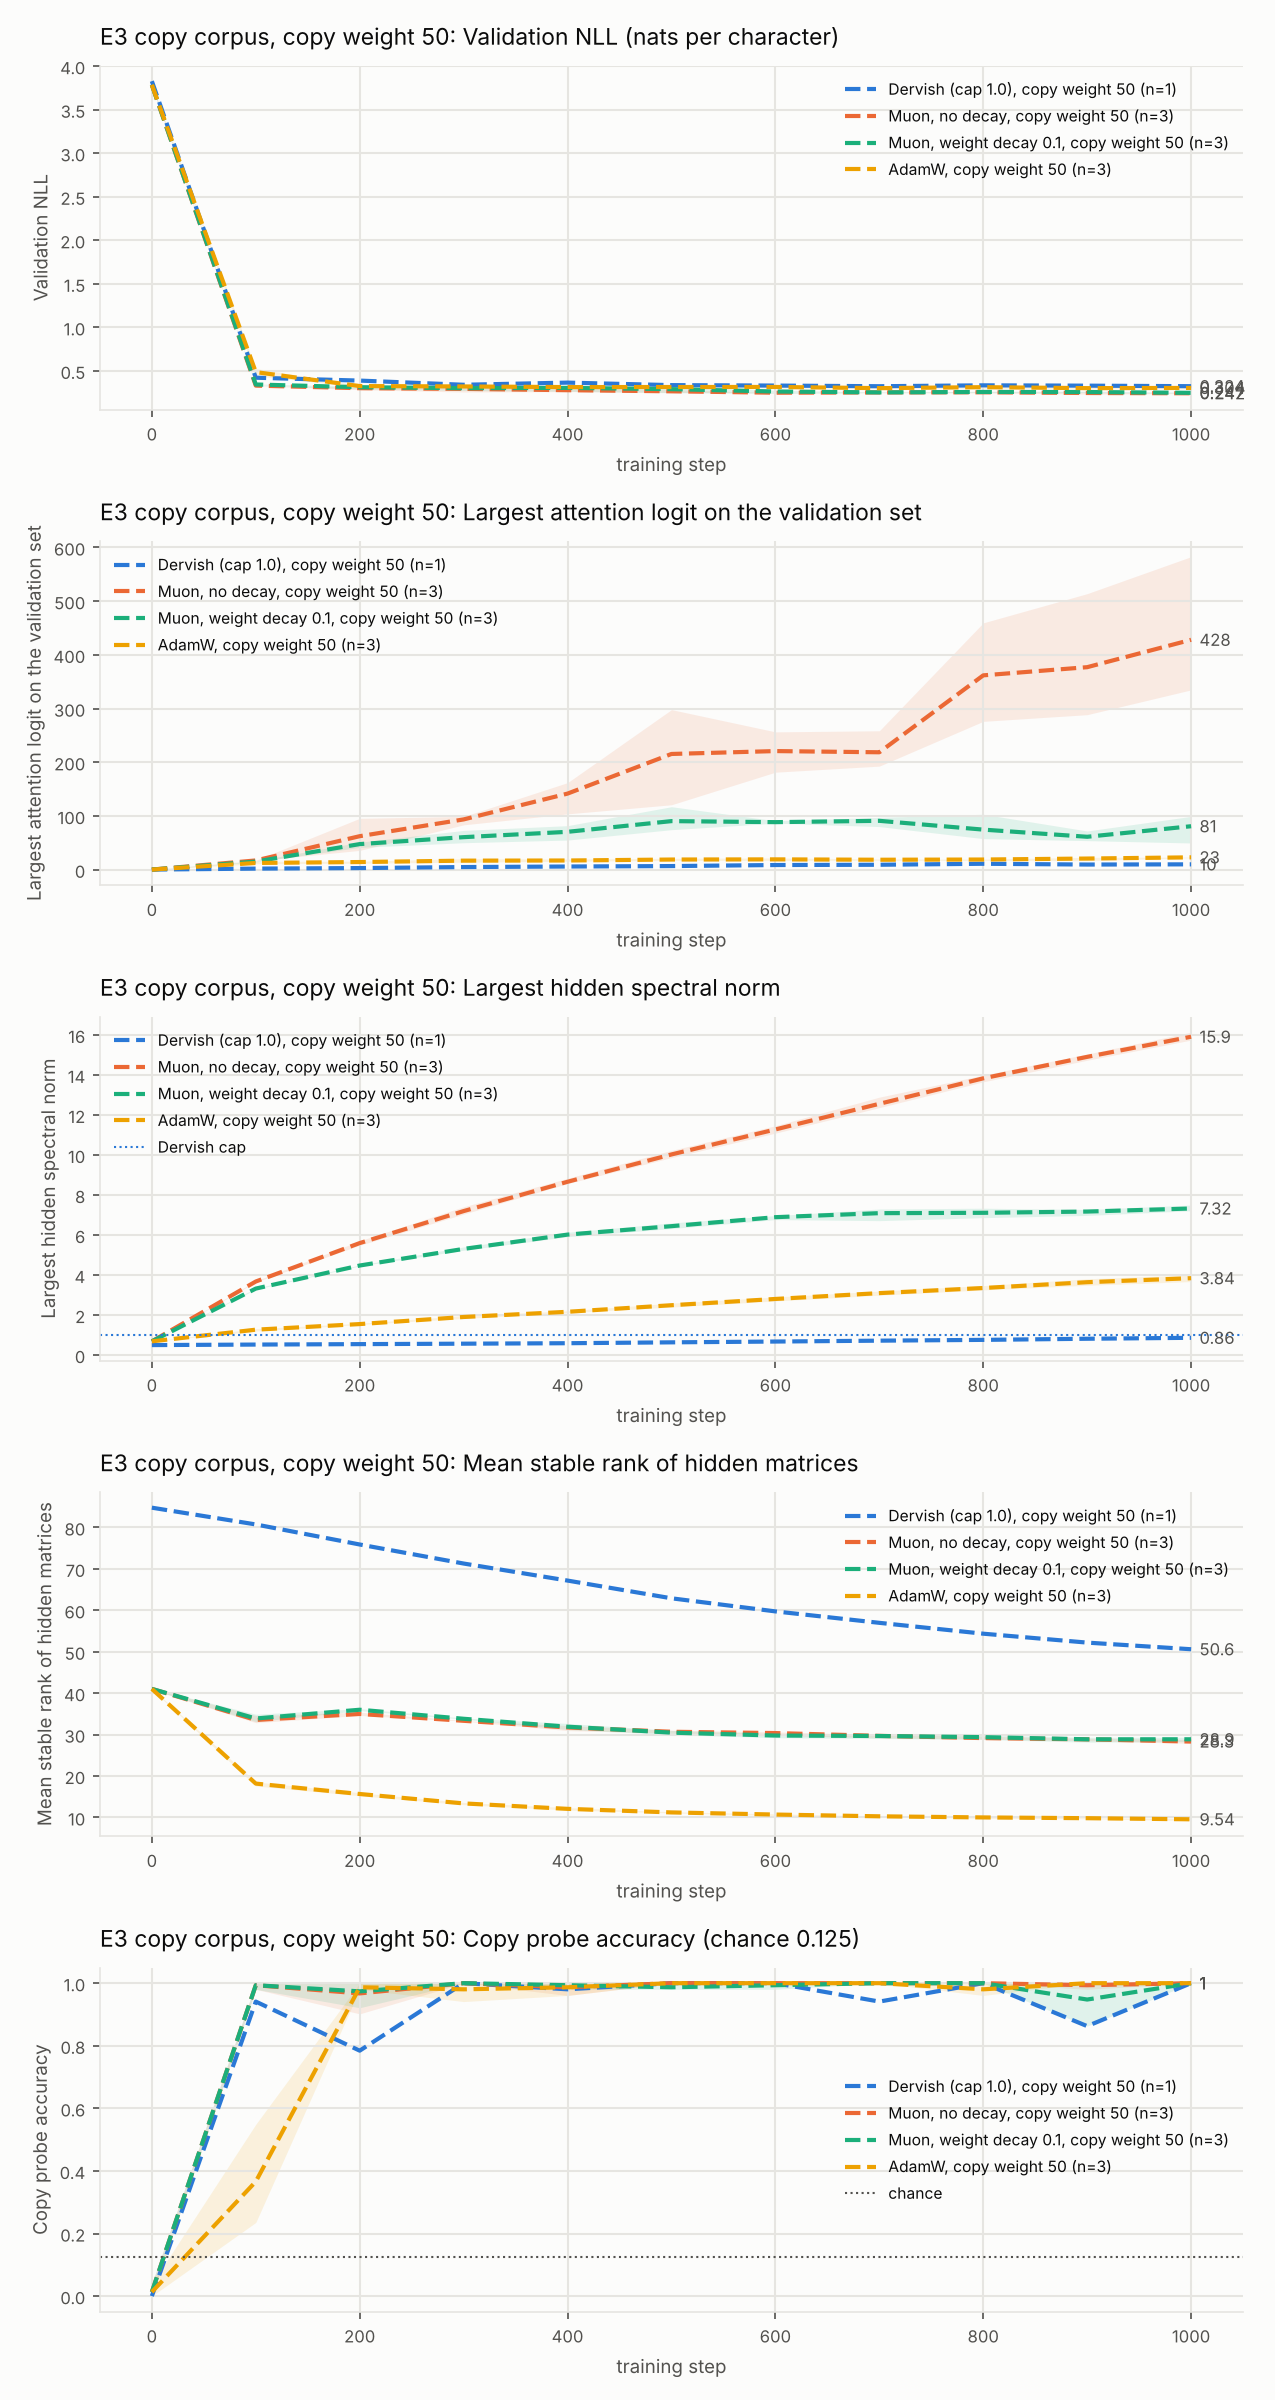
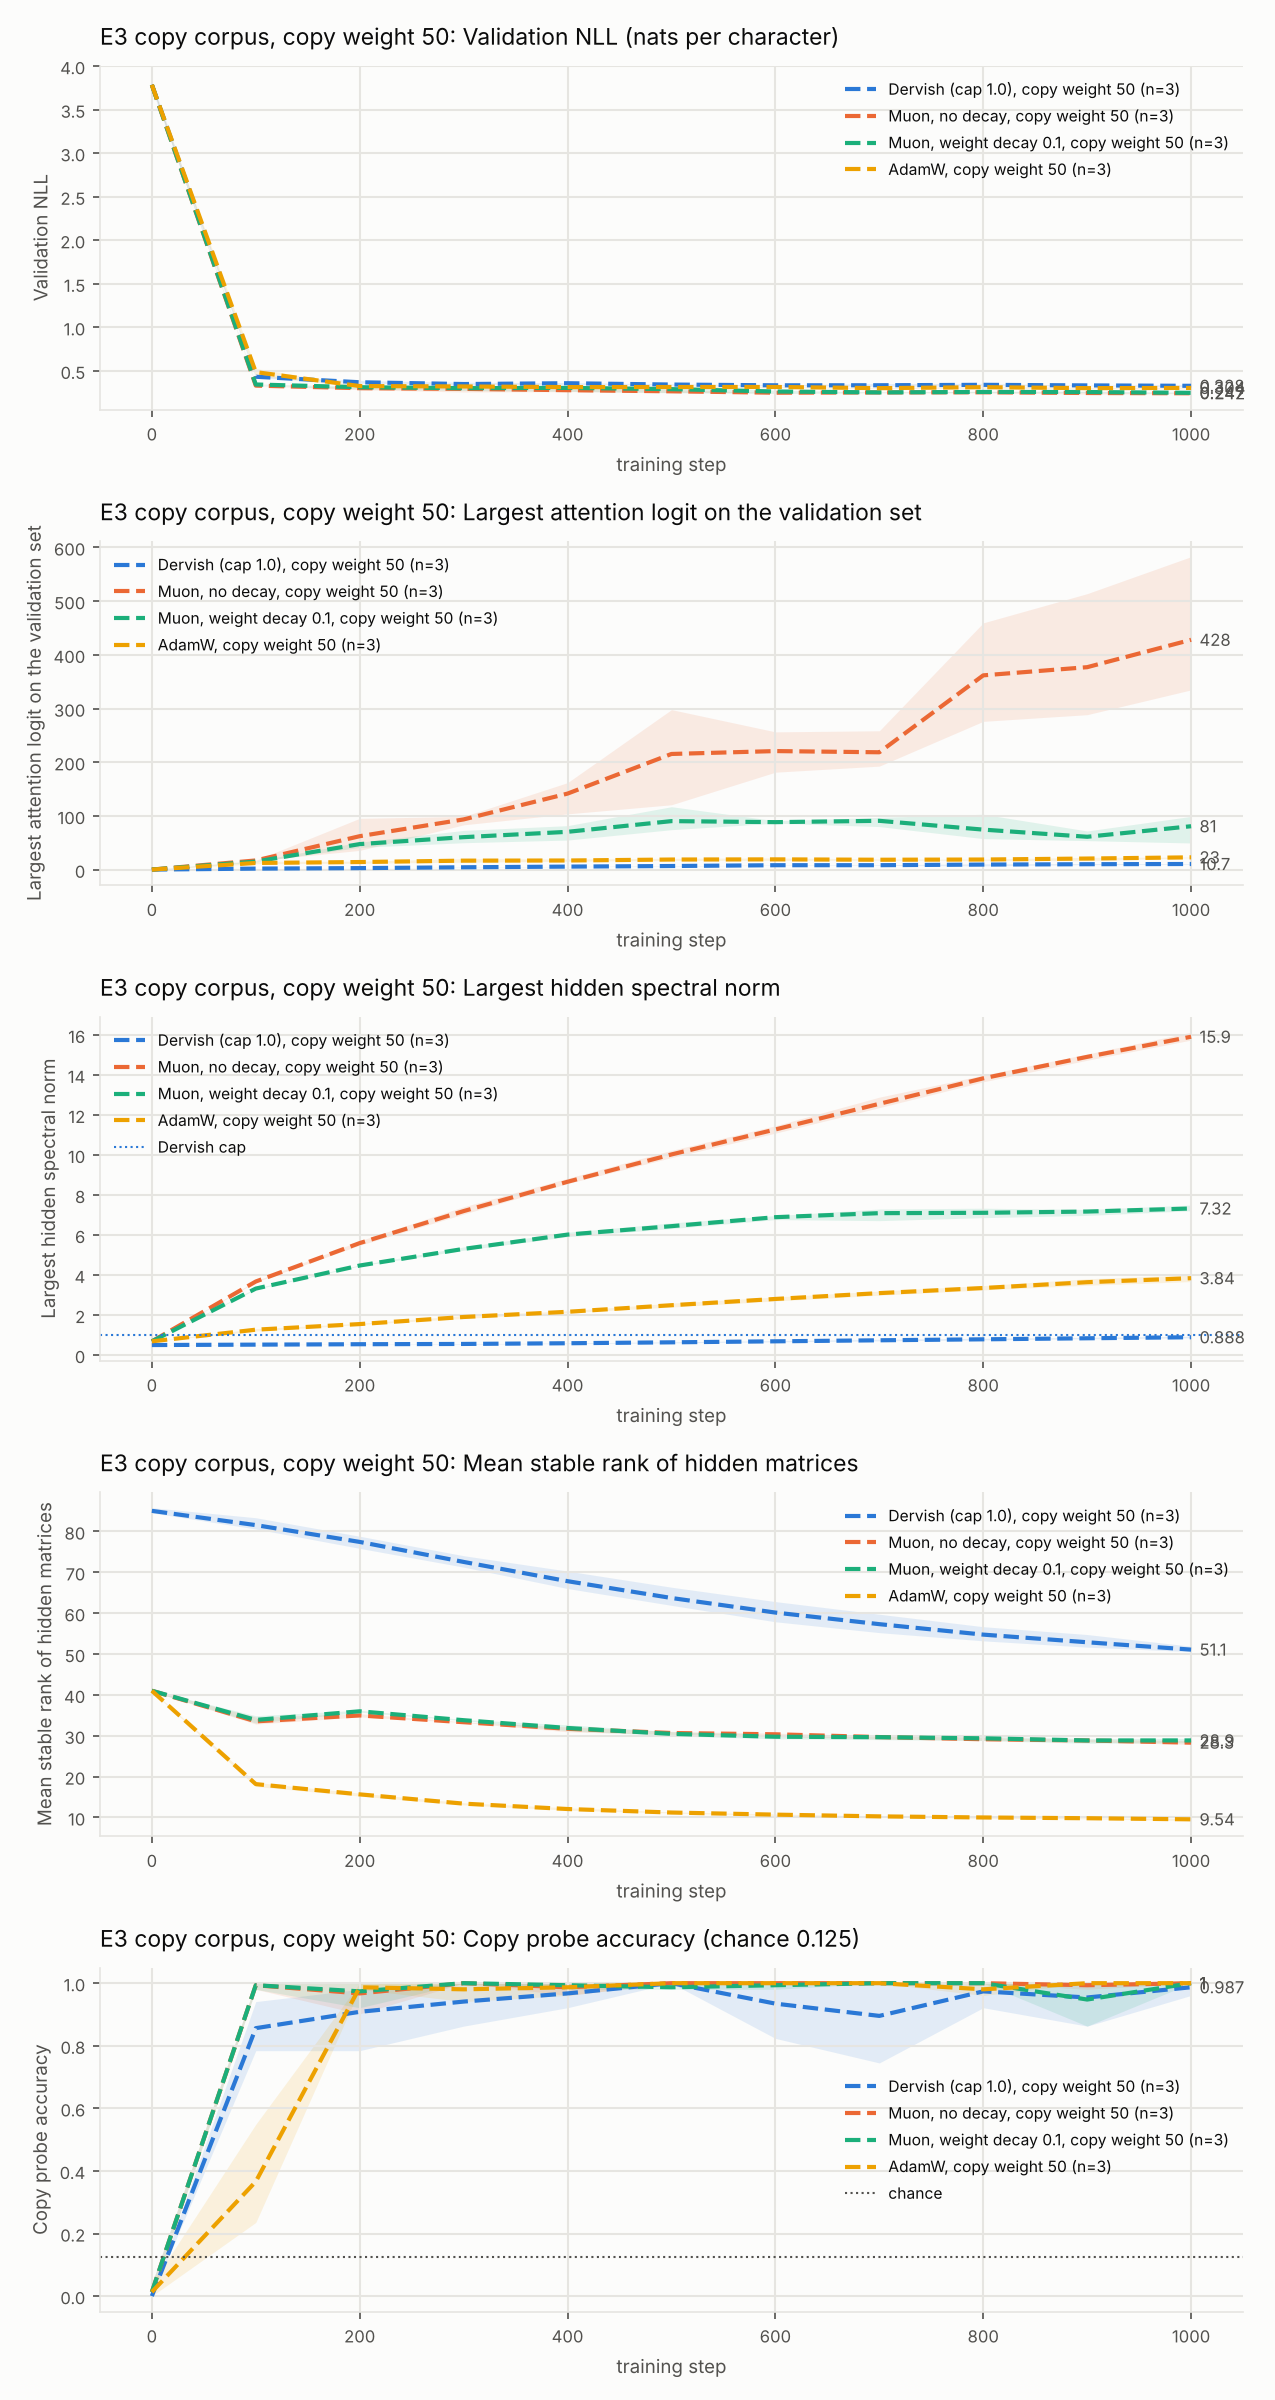
wip: E3 matrix complete, Stage D3 draft, figures regenerated

diff --git a/runs/e3_copy.md b/runs/e3_copy.md
@@ -1,0 +1,180 @@
+# E3 Copy Behaviour Summary
+
+Command:
+
+```
+python lab/compare.py --corpus lab/corpus/long_context_seed.txt --eval-interval 100 --eval-mode full --block-size 96 --batch-size 32 --n-layer 4 --n-head 4 --n-embd 128 --threads 2 --quiet --steps 1000 --seeds 7 11 19 --copy-probe-marker answer= --configs adamw muon muon_wd dervish adamw_copyw muon_copyw muon_wd_copyw dervish_copyw --out runs/e3_copy.jsonl --summary runs/e3_copy.md --title 'E3 Copy Behaviour Summary'
+```
+
+| Config | Seeds | Trainable params | Mean val NLL | Min val NLL | Max val NLL | Mean bits/char | Peak att logit (mean) | Final spectral max (mean) | Final stable rank (mean) | Final out logit max (mean) | Mean copy acc | Min copy acc | Max copy acc | Mean copy NLL | Diverged | Mean train s |
+| --- | ---: | ---: | ---: | ---: | ---: | ---: | ---: | ---: | ---: | ---: | ---: | ---: | ---: | ---: | ---: | ---: |
+| adamw | 3 | 804395 | 0.251985 | 0.245118 | 0.258241 | 0.363538 | 25.29 | 3.082 | 12.56 | 15.97 | 0.993464 | 0.980392 | 1.000000 | 0.010677 | 0 | 239.6 |
+| muon | 3 | 804395 | 0.252694 | 0.251512 | 0.253870 | 0.364560 | 247.68 | 13.619 | 31.40 | 16.28 | 1.000000 | 1.000000 | 1.000000 | 0.003733 | 0 | 278.8 |
+| muon_wd | 3 | 804395 | 0.281399 | 0.274749 | 0.285125 | 0.405973 | 60.27 | 5.814 | 31.22 | 14.63 | 0.993464 | 0.980392 | 1.000000 | 0.056631 | 0 | 231.7 |
+| dervish | 3 | 804395 | 0.267591 | 0.259241 | 0.284169 | 0.386052 | 10.77 | 0.778 | 57.27 | 15.53 | 0.888889 | 0.823529 | 1.000000 | 0.386740 | 0 | 245.8 |
+| adamw_copyw | 3 | 804395 | 0.303530 | 0.291047 | 0.311966 | 0.437902 | 23.06 | 3.839 | 9.54 | 17.86 | 1.000000 | 1.000000 | 1.000000 | 0.003074 | 0 | 201.5 |
+| muon_copyw | 3 | 804395 | 0.242133 | 0.239004 | 0.243932 | 0.349324 | 433.02 | 15.906 | 28.31 | 17.51 | 1.000000 | 1.000000 | 1.000000 | 0.001964 | 0 | 253.9 |
+| muon_wd_copyw | 3 | 804395 | 0.247307 | 0.242756 | 0.255558 | 0.356789 | 104.70 | 7.322 | 28.85 | 16.39 | 1.000000 | 1.000000 | 1.000000 | 0.007590 | 0 | 214.6 |
+| dervish_copyw | 3 | 804395 | 0.327848 | 0.317834 | 0.342192 | 0.472985 | 11.32 | 0.888 | 51.08 | 16.73 | 0.986928 | 0.960784 | 1.000000 | 0.063020 | 0 | 428.2 |
+
+Raw rows:
+
+| Config | Seed | val NLL | bits/char | peak att logit | final att logit | final spectral max | final stable rank | final out logit max | copy acc | copy NLL | diverged at | train s |
+| --- | ---: | ---: | ---: | ---: | ---: | ---: | ---: | ---: | ---: | ---: | ---: | ---: |
+| adamw | 7 | 0.245118 | 0.353631 | 31.25 | 20.09 | 3.065 | 12.78 | 15.99 | 1.000000 | 0.003442 | · | 202.9 |
+| adamw | 11 | 0.258241 | 0.372564 | 21.83 | 21.78 | 3.032 | 12.52 | 15.90 | 0.980392 | 0.021586 | · | 287.4 |
+| adamw | 19 | 0.252597 | 0.364420 | 22.80 | 22.60 | 3.148 | 12.38 | 16.02 | 1.000000 | 0.007003 | · | 228.6 |
+| muon | 7 | 0.253870 | 0.366257 | 262.84 | 262.84 | 13.624 | 31.80 | 16.76 | 1.000000 | 0.001584 | · | 312.1 |
+| muon | 11 | 0.251512 | 0.362855 | 261.79 | 222.26 | 13.501 | 31.27 | 15.73 | 1.000000 | 0.003274 | · | 262.4 |
+| muon | 19 | 0.252699 | 0.364568 | 218.41 | 218.41 | 13.731 | 31.13 | 16.36 | 1.000000 | 0.006340 | · | 261.9 |
+| muon_wd | 7 | 0.285125 | 0.411349 | 43.33 | 29.48 | 5.837 | 31.05 | 14.70 | 1.000000 | 0.002412 | · | 234.2 |
+| muon_wd | 11 | 0.284324 | 0.410192 | 80.93 | 39.70 | 5.925 | 31.19 | 14.16 | 0.980392 | 0.162048 | · | 236.3 |
+| muon_wd | 19 | 0.274749 | 0.396379 | 56.55 | 32.54 | 5.679 | 31.43 | 15.02 | 1.000000 | 0.005432 | · | 224.6 |
+| dervish | 7 | 0.259241 | 0.374006 | 11.40 | 11.40 | 0.751 | 55.96 | 15.61 | 0.823529 | 0.519945 | · | 239.8 |
+| dervish | 11 | 0.284169 | 0.409969 | 10.93 | 10.93 | 0.823 | 57.42 | 15.31 | 0.843137 | 0.586044 | · | 248.2 |
+| dervish | 19 | 0.259362 | 0.374180 | 9.97 | 9.97 | 0.761 | 58.44 | 15.66 | 1.000000 | 0.054230 | · | 249.5 |
+| adamw_copyw | 7 | 0.291047 | 0.419892 | 23.47 | 23.47 | 3.670 | 9.63 | 17.76 | 1.000000 | 0.002003 | · | 196.9 |
+| adamw_copyw | 11 | 0.307578 | 0.443741 | 22.38 | 22.32 | 3.846 | 9.23 | 18.16 | 1.000000 | 0.004918 | · | 206.6 |
+| adamw_copyw | 19 | 0.311966 | 0.450072 | 23.33 | 23.33 | 4.001 | 9.75 | 17.67 | 1.000000 | 0.002302 | · | 200.9 |
+| muon_copyw | 7 | 0.243463 | 0.351243 | 349.74 | 334.80 | 15.739 | 28.79 | 16.57 | 1.000000 | 0.003380 | · | 250.8 |
+| muon_copyw | 11 | 0.243932 | 0.351919 | 366.54 | 366.54 | 16.134 | 27.87 | 17.73 | 1.000000 | 0.001606 | · | 260.1 |
+| muon_copyw | 19 | 0.239004 | 0.344810 | 582.77 | 582.77 | 15.845 | 28.27 | 18.23 | 1.000000 | 0.000907 | · | 250.9 |
+| muon_wd_copyw | 7 | 0.243608 | 0.351452 | 97.48 | 49.79 | 7.211 | 29.36 | 16.32 | 1.000000 | 0.005434 | · | 209.7 |
+| muon_wd_copyw | 11 | 0.255558 | 0.368692 | 99.32 | 99.32 | 7.263 | 28.30 | 15.97 | 1.000000 | 0.013347 | · | 214.8 |
+| muon_wd_copyw | 19 | 0.242756 | 0.350223 | 117.30 | 93.82 | 7.493 | 28.90 | 16.87 | 1.000000 | 0.003987 | · | 219.3 |
+| dervish_copyw | 7 | 0.323519 | 0.466739 | 11.09 | 10.02 | 0.860 | 50.58 | 16.27 | 1.000000 | 0.008060 | · | 241.7 |
+| dervish_copyw | 11 | 0.342192 | 0.493679 | 11.65 | 10.72 | 0.867 | 51.91 | 16.23 | 0.960784 | 0.165626 | · | 530.4 |
+| dervish_copyw | 19 | 0.317834 | 0.458538 | 11.23 | 11.23 | 0.937 | 50.76 | 17.67 | 1.000000 | 0.015375 | · | 512.6 |
+
+Evaluation curves (means over seeds):
+
+`adamw`
+
+| step | val NLL | att logit max | out logit max | spectral max | stable rank | copy acc |
+| ---: | ---: | ---: | ---: | ---: | ---: | ---: |
+| 0 | 3.7849 | 0.29 | 0.97 | 0.684 | 41.01 | 0.0131 |
+| 100 | 0.3449 | 16.41 | 9.17 | 1.340 | 20.32 | 0.1242 |
+| 200 | 0.2662 | 17.94 | 11.85 | 1.561 | 19.57 | 0.2157 |
+| 300 | 0.2613 | 18.26 | 13.02 | 1.729 | 18.45 | 0.6078 |
+| 400 | 0.2587 | 18.66 | 13.94 | 1.915 | 16.99 | 0.9608 |
+| 500 | 0.2528 | 19.45 | 14.38 | 2.108 | 15.53 | 0.9869 |
+| 600 | 0.2506 | 20.28 | 14.96 | 2.316 | 14.65 | 0.9869 |
+| 700 | 0.2504 | 20.90 | 15.56 | 2.522 | 13.94 | 0.9869 |
+| 800 | 0.2565 | 24.65 | 15.70 | 2.696 | 13.34 | 1.0000 |
+| 900 | 0.2541 | 21.79 | 15.71 | 2.874 | 12.89 | 1.0000 |
+| 1000 | 0.2520 | 21.49 | 15.97 | 3.082 | 12.56 | 0.9935 |
+
+`muon`
+
+| step | val NLL | att logit max | out logit max | spectral max | stable rank | copy acc |
+| ---: | ---: | ---: | ---: | ---: | ---: | ---: |
+| 0 | 3.7849 | 0.29 | 0.97 | 0.684 | 41.01 | 0.0131 |
+| 100 | 0.2742 | 14.22 | 8.66 | 3.862 | 38.48 | 0.4967 |
+| 200 | 0.2498 | 31.40 | 10.88 | 5.758 | 37.48 | 0.9935 |
+| 300 | 0.2440 | 73.86 | 12.38 | 6.928 | 36.52 | 1.0000 |
+| 400 | 0.2476 | 96.04 | 13.00 | 8.146 | 34.91 | 0.9935 |
+| 500 | 0.2450 | 136.79 | 13.86 | 9.245 | 33.97 | 0.9673 |
+| 600 | 0.2471 | 175.32 | 14.52 | 10.162 | 33.24 | 0.9869 |
+| 700 | 0.2456 | 212.87 | 15.21 | 11.109 | 32.39 | 0.9869 |
+| 800 | 0.2509 | 213.85 | 15.38 | 11.897 | 31.86 | 1.0000 |
+| 900 | 0.2460 | 239.88 | 15.25 | 12.717 | 31.47 | 0.9935 |
+| 1000 | 0.2527 | 234.50 | 16.28 | 13.619 | 31.40 | 1.0000 |
+
+`muon_wd`
+
+| step | val NLL | att logit max | out logit max | spectral max | stable rank | copy acc |
+| ---: | ---: | ---: | ---: | ---: | ---: | ---: |
+| 0 | 3.7849 | 0.29 | 0.97 | 0.684 | 41.01 | 0.0131 |
+| 100 | 0.2747 | 11.25 | 8.61 | 3.469 | 38.48 | 0.5621 |
+| 200 | 0.2504 | 28.25 | 10.80 | 4.556 | 37.86 | 0.9869 |
+| 300 | 0.2511 | 43.72 | 11.96 | 5.087 | 35.55 | 1.0000 |
+| 400 | 0.2480 | 49.49 | 13.10 | 5.360 | 33.94 | 0.9804 |
+| 500 | 0.2520 | 42.11 | 13.53 | 5.590 | 33.10 | 0.9673 |
+| 600 | 0.2471 | 57.25 | 13.88 | 5.769 | 32.38 | 0.9935 |
+| 700 | 0.2483 | 51.24 | 14.07 | 5.902 | 31.87 | 1.0000 |
+| 800 | 0.2547 | 52.23 | 14.74 | 5.906 | 31.61 | 0.9869 |
+| 900 | 0.2641 | 34.05 | 14.64 | 5.923 | 31.14 | 0.9935 |
+| 1000 | 0.2814 | 33.91 | 14.63 | 5.814 | 31.22 | 0.9935 |
+
+`dervish`
+
+| step | val NLL | att logit max | out logit max | spectral max | stable rank | copy acc |
+| ---: | ---: | ---: | ---: | ---: | ---: | ---: |
+| 0 | 3.7859 | 0.28 | 1.00 | 0.499 | 85.05 | 0.0000 |
+| 100 | 0.3464 | 2.01 | 8.73 | 0.519 | 82.56 | 0.1634 |
+| 200 | 0.2893 | 3.11 | 11.01 | 0.538 | 79.61 | 0.2222 |
+| 300 | 0.2822 | 4.16 | 12.29 | 0.548 | 76.00 | 0.2549 |
+| 400 | 0.2867 | 5.57 | 13.20 | 0.559 | 72.67 | 0.2157 |
+| 500 | 0.2779 | 5.92 | 13.69 | 0.574 | 69.61 | 0.1373 |
+| 600 | 0.2686 | 6.80 | 13.94 | 0.606 | 67.01 | 0.3856 |
+| 700 | 0.2782 | 8.23 | 14.30 | 0.672 | 65.00 | 0.9020 |
+| 800 | 0.2622 | 9.39 | 15.03 | 0.721 | 62.52 | 0.9869 |
+| 900 | 0.2498 | 10.01 | 15.77 | 0.753 | 59.83 | 0.9608 |
+| 1000 | 0.2676 | 10.77 | 15.53 | 0.778 | 57.27 | 0.8889 |
+
+`adamw_copyw`
+
+| step | val NLL | att logit max | out logit max | spectral max | stable rank | copy acc |
+| ---: | ---: | ---: | ---: | ---: | ---: | ---: |
+| 0 | 3.7849 | 0.29 | 0.97 | 0.684 | 41.01 | 0.0131 |
+| 100 | 0.4853 | 12.60 | 8.85 | 1.266 | 18.16 | 0.3660 |
+| 200 | 0.3249 | 14.31 | 12.17 | 1.546 | 15.65 | 0.9869 |
+| 300 | 0.3206 | 16.89 | 13.93 | 1.900 | 13.38 | 0.9804 |
+| 400 | 0.3132 | 17.16 | 15.27 | 2.160 | 12.06 | 0.9869 |
+| 500 | 0.3140 | 18.96 | 15.79 | 2.489 | 11.20 | 1.0000 |
+| 600 | 0.3147 | 19.26 | 16.46 | 2.801 | 10.68 | 1.0000 |
+| 700 | 0.3012 | 18.58 | 16.90 | 3.093 | 10.26 | 1.0000 |
+| 800 | 0.3123 | 18.97 | 17.25 | 3.348 | 9.99 | 0.9804 |
+| 900 | 0.3012 | 20.80 | 17.75 | 3.639 | 9.81 | 1.0000 |
+| 1000 | 0.3035 | 23.04 | 17.86 | 3.839 | 9.54 | 1.0000 |
+
+`muon_copyw`
+
+| step | val NLL | att logit max | out logit max | spectral max | stable rank | copy acc |
+| ---: | ---: | ---: | ---: | ---: | ---: | ---: |
+| 0 | 3.7849 | 0.29 | 0.97 | 0.684 | 41.01 | 0.0131 |
+| 100 | 0.3301 | 17.27 | 9.04 | 3.673 | 33.52 | 0.9935 |
+| 200 | 0.3006 | 62.43 | 11.40 | 5.594 | 34.97 | 0.9673 |
+| 300 | 0.2928 | 93.65 | 13.21 | 7.193 | 33.31 | 1.0000 |
+| 400 | 0.2776 | 141.72 | 14.14 | 8.658 | 31.70 | 0.9869 |
+| 500 | 0.2649 | 215.50 | 14.93 | 10.024 | 30.67 | 1.0000 |
+| 600 | 0.2485 | 220.88 | 15.55 | 11.273 | 30.35 | 1.0000 |
+| 700 | 0.2518 | 218.65 | 16.02 | 12.554 | 29.68 | 1.0000 |
+| 800 | 0.2535 | 361.85 | 16.84 | 13.827 | 29.14 | 1.0000 |
+| 900 | 0.2453 | 377.07 | 16.99 | 14.901 | 28.83 | 0.9935 |
+| 1000 | 0.2421 | 428.04 | 17.51 | 15.906 | 28.31 | 1.0000 |
+
+`muon_wd_copyw`
+
+| step | val NLL | att logit max | out logit max | spectral max | stable rank | copy acc |
+| ---: | ---: | ---: | ---: | ---: | ---: | ---: |
+| 0 | 3.7849 | 0.29 | 0.97 | 0.684 | 41.01 | 0.0131 |
+| 100 | 0.3430 | 15.16 | 8.94 | 3.320 | 33.87 | 0.9935 |
+| 200 | 0.3118 | 47.72 | 11.34 | 4.472 | 35.98 | 0.9739 |
+| 300 | 0.3008 | 60.62 | 12.99 | 5.303 | 33.80 | 1.0000 |
+| 400 | 0.3040 | 70.55 | 13.89 | 6.018 | 31.89 | 0.9935 |
+| 500 | 0.2897 | 90.49 | 14.53 | 6.439 | 30.45 | 0.9869 |
+| 600 | 0.2626 | 88.57 | 15.07 | 6.889 | 29.75 | 0.9935 |
+| 700 | 0.2523 | 91.04 | 15.66 | 7.089 | 29.65 | 1.0000 |
+| 800 | 0.2574 | 74.66 | 16.12 | 7.107 | 29.37 | 1.0000 |
+| 900 | 0.2568 | 61.32 | 16.42 | 7.169 | 28.85 | 0.9477 |
+| 1000 | 0.2473 | 80.98 | 16.39 | 7.322 | 28.85 | 1.0000 |
+
+`dervish_copyw`
+
+| step | val NLL | att logit max | out logit max | spectral max | stable rank | copy acc |
+| ---: | ---: | ---: | ---: | ---: | ---: | ---: |
+| 0 | 3.7859 | 0.28 | 1.00 | 0.499 | 85.05 | 0.0000 |
+| 100 | 0.4319 | 2.06 | 8.97 | 0.518 | 81.56 | 0.8562 |
+| 200 | 0.3687 | 2.99 | 11.44 | 0.539 | 77.45 | 0.9085 |
+| 300 | 0.3483 | 4.55 | 12.93 | 0.553 | 72.55 | 0.9412 |
+| 400 | 0.3577 | 5.80 | 13.72 | 0.588 | 67.83 | 0.9673 |
+| 500 | 0.3424 | 6.91 | 14.84 | 0.634 | 63.72 | 1.0000 |
+| 600 | 0.3336 | 8.40 | 15.14 | 0.684 | 60.15 | 0.9346 |
+| 700 | 0.3343 | 8.45 | 15.74 | 0.736 | 57.31 | 0.8954 |
+| 800 | 0.3391 | 9.58 | 16.17 | 0.784 | 54.75 | 0.9739 |
+| 900 | 0.3326 | 10.27 | 16.38 | 0.837 | 52.88 | 0.9542 |
+| 1000 | 0.3278 | 10.66 | 16.73 | 0.888 | 51.08 | 0.9869 |
+
+
+Matrix wall-clock: 6445.0 s · platform: Linux-6.18.44-fc-v80-x86_64-with-glibc2.39 · torch 2.14.1+cu130 · device cpu · threads 2
